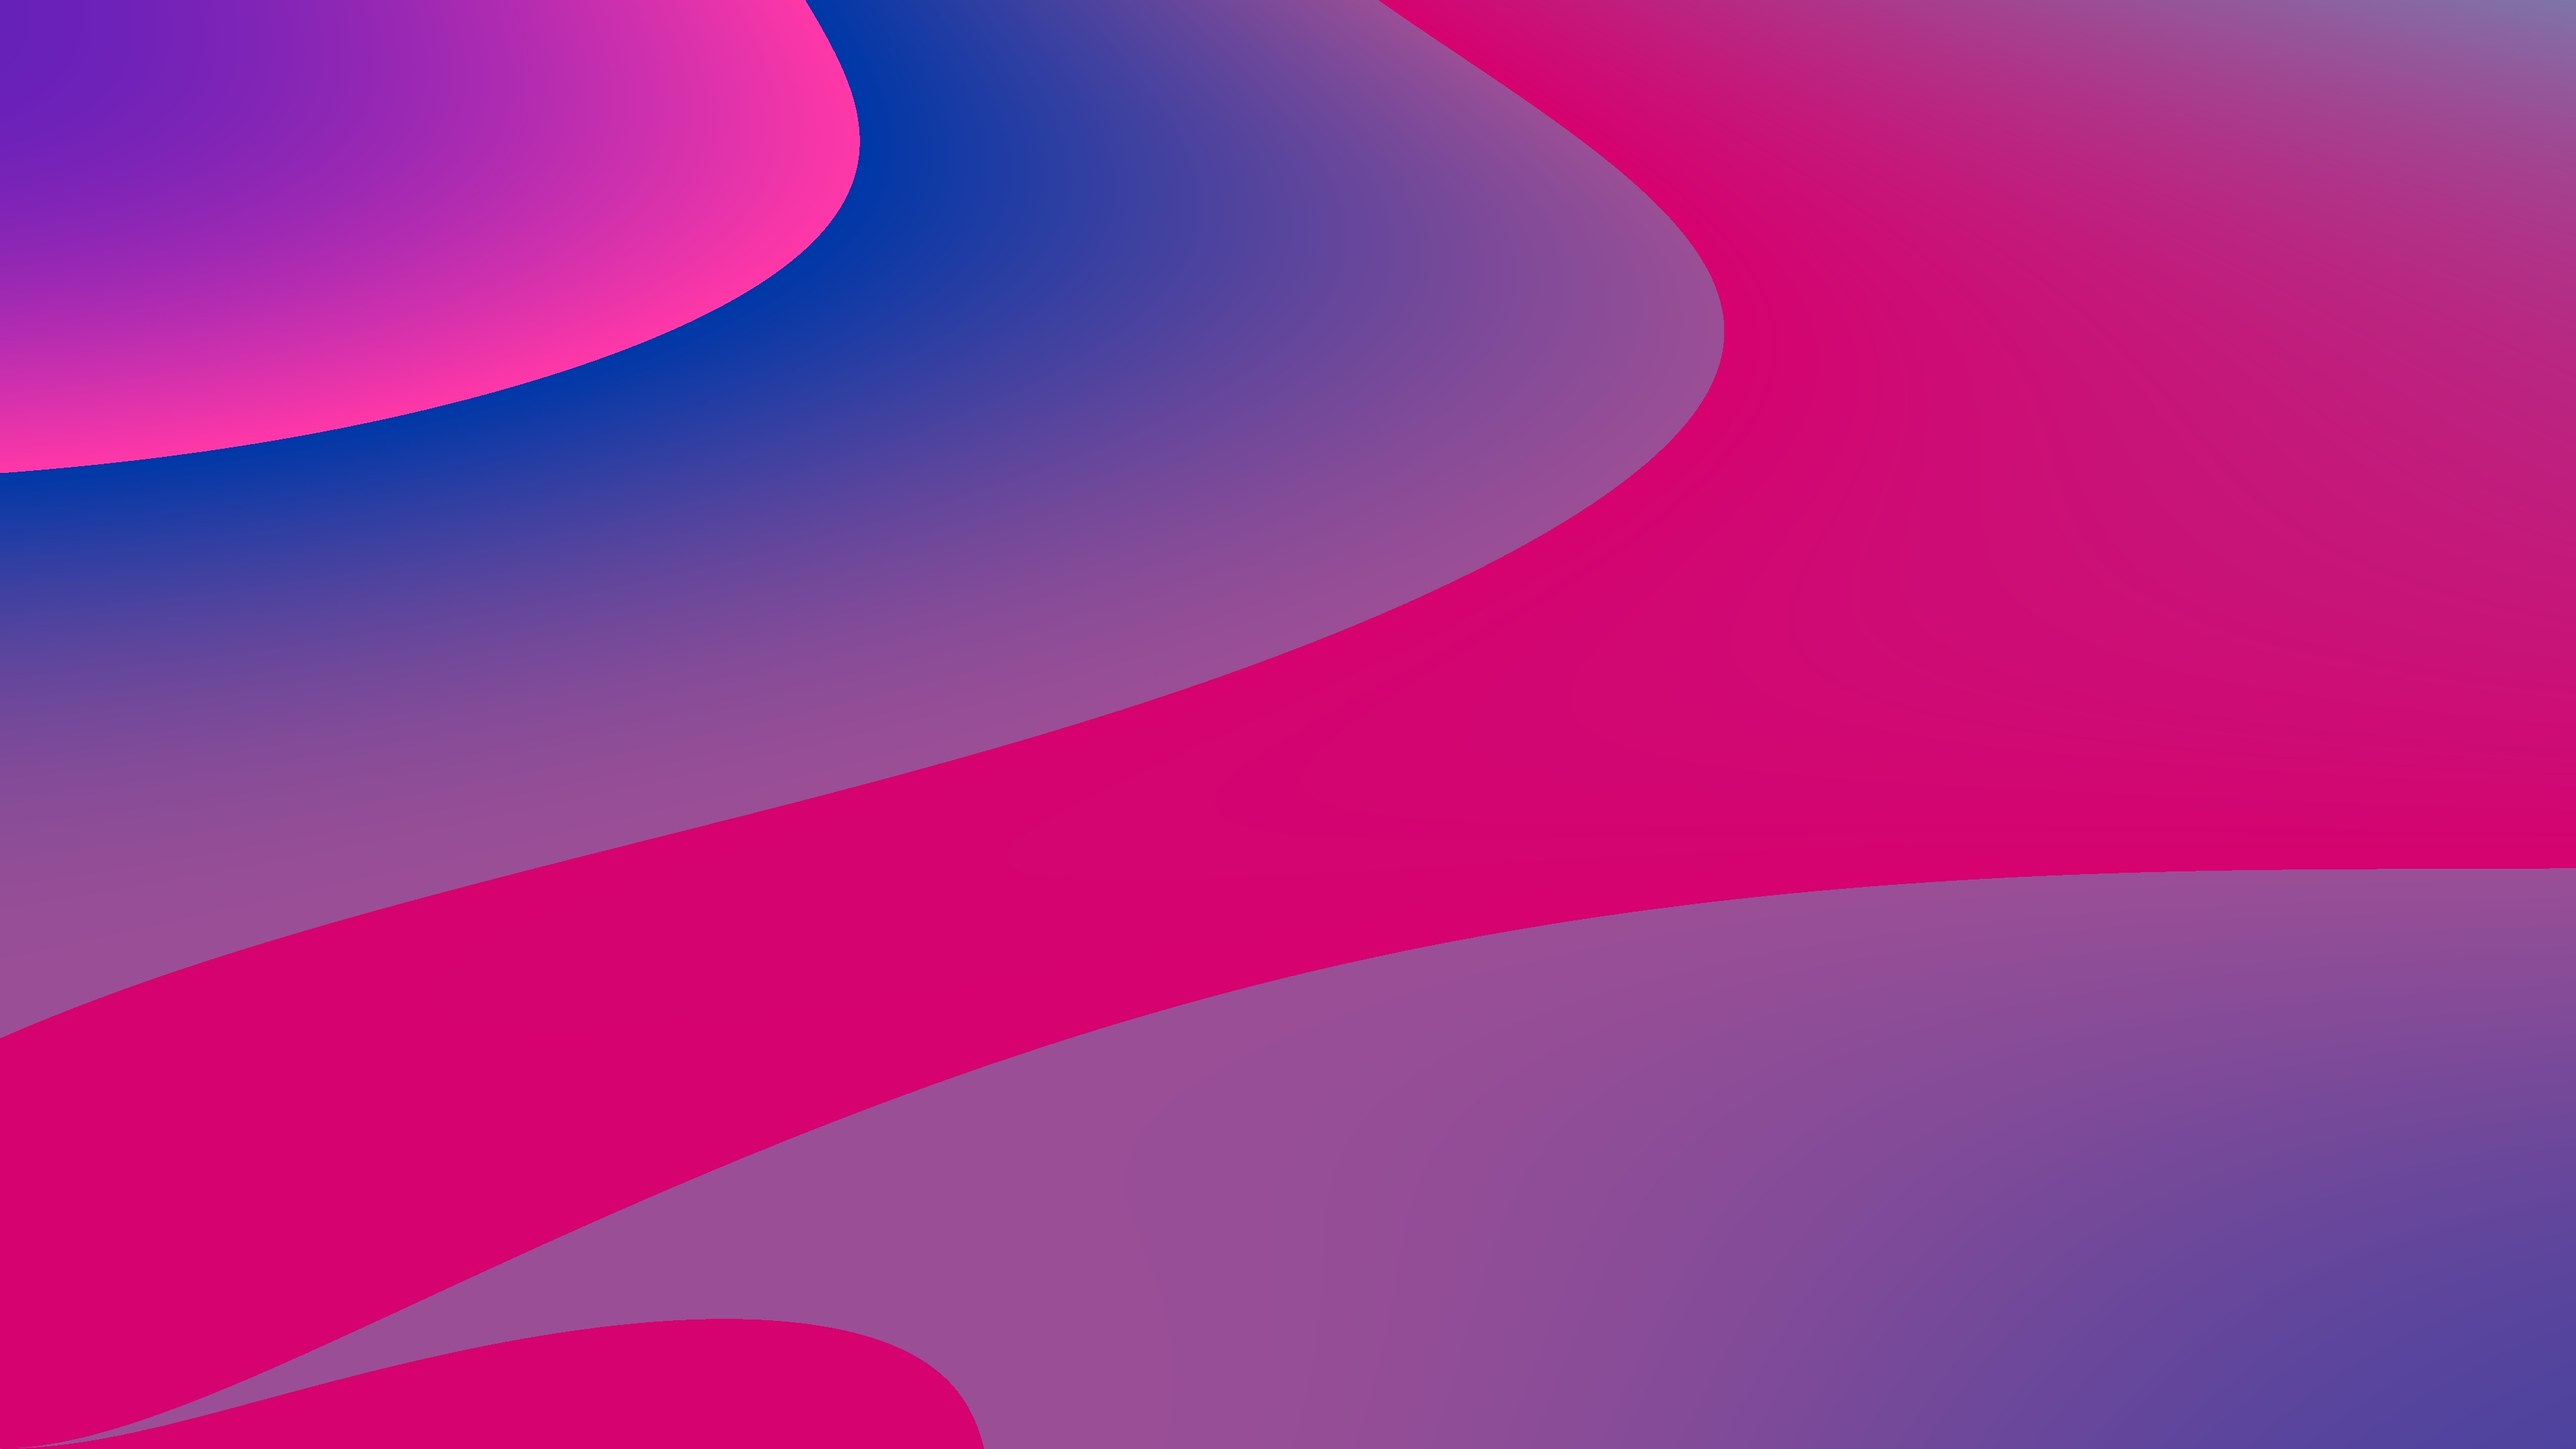
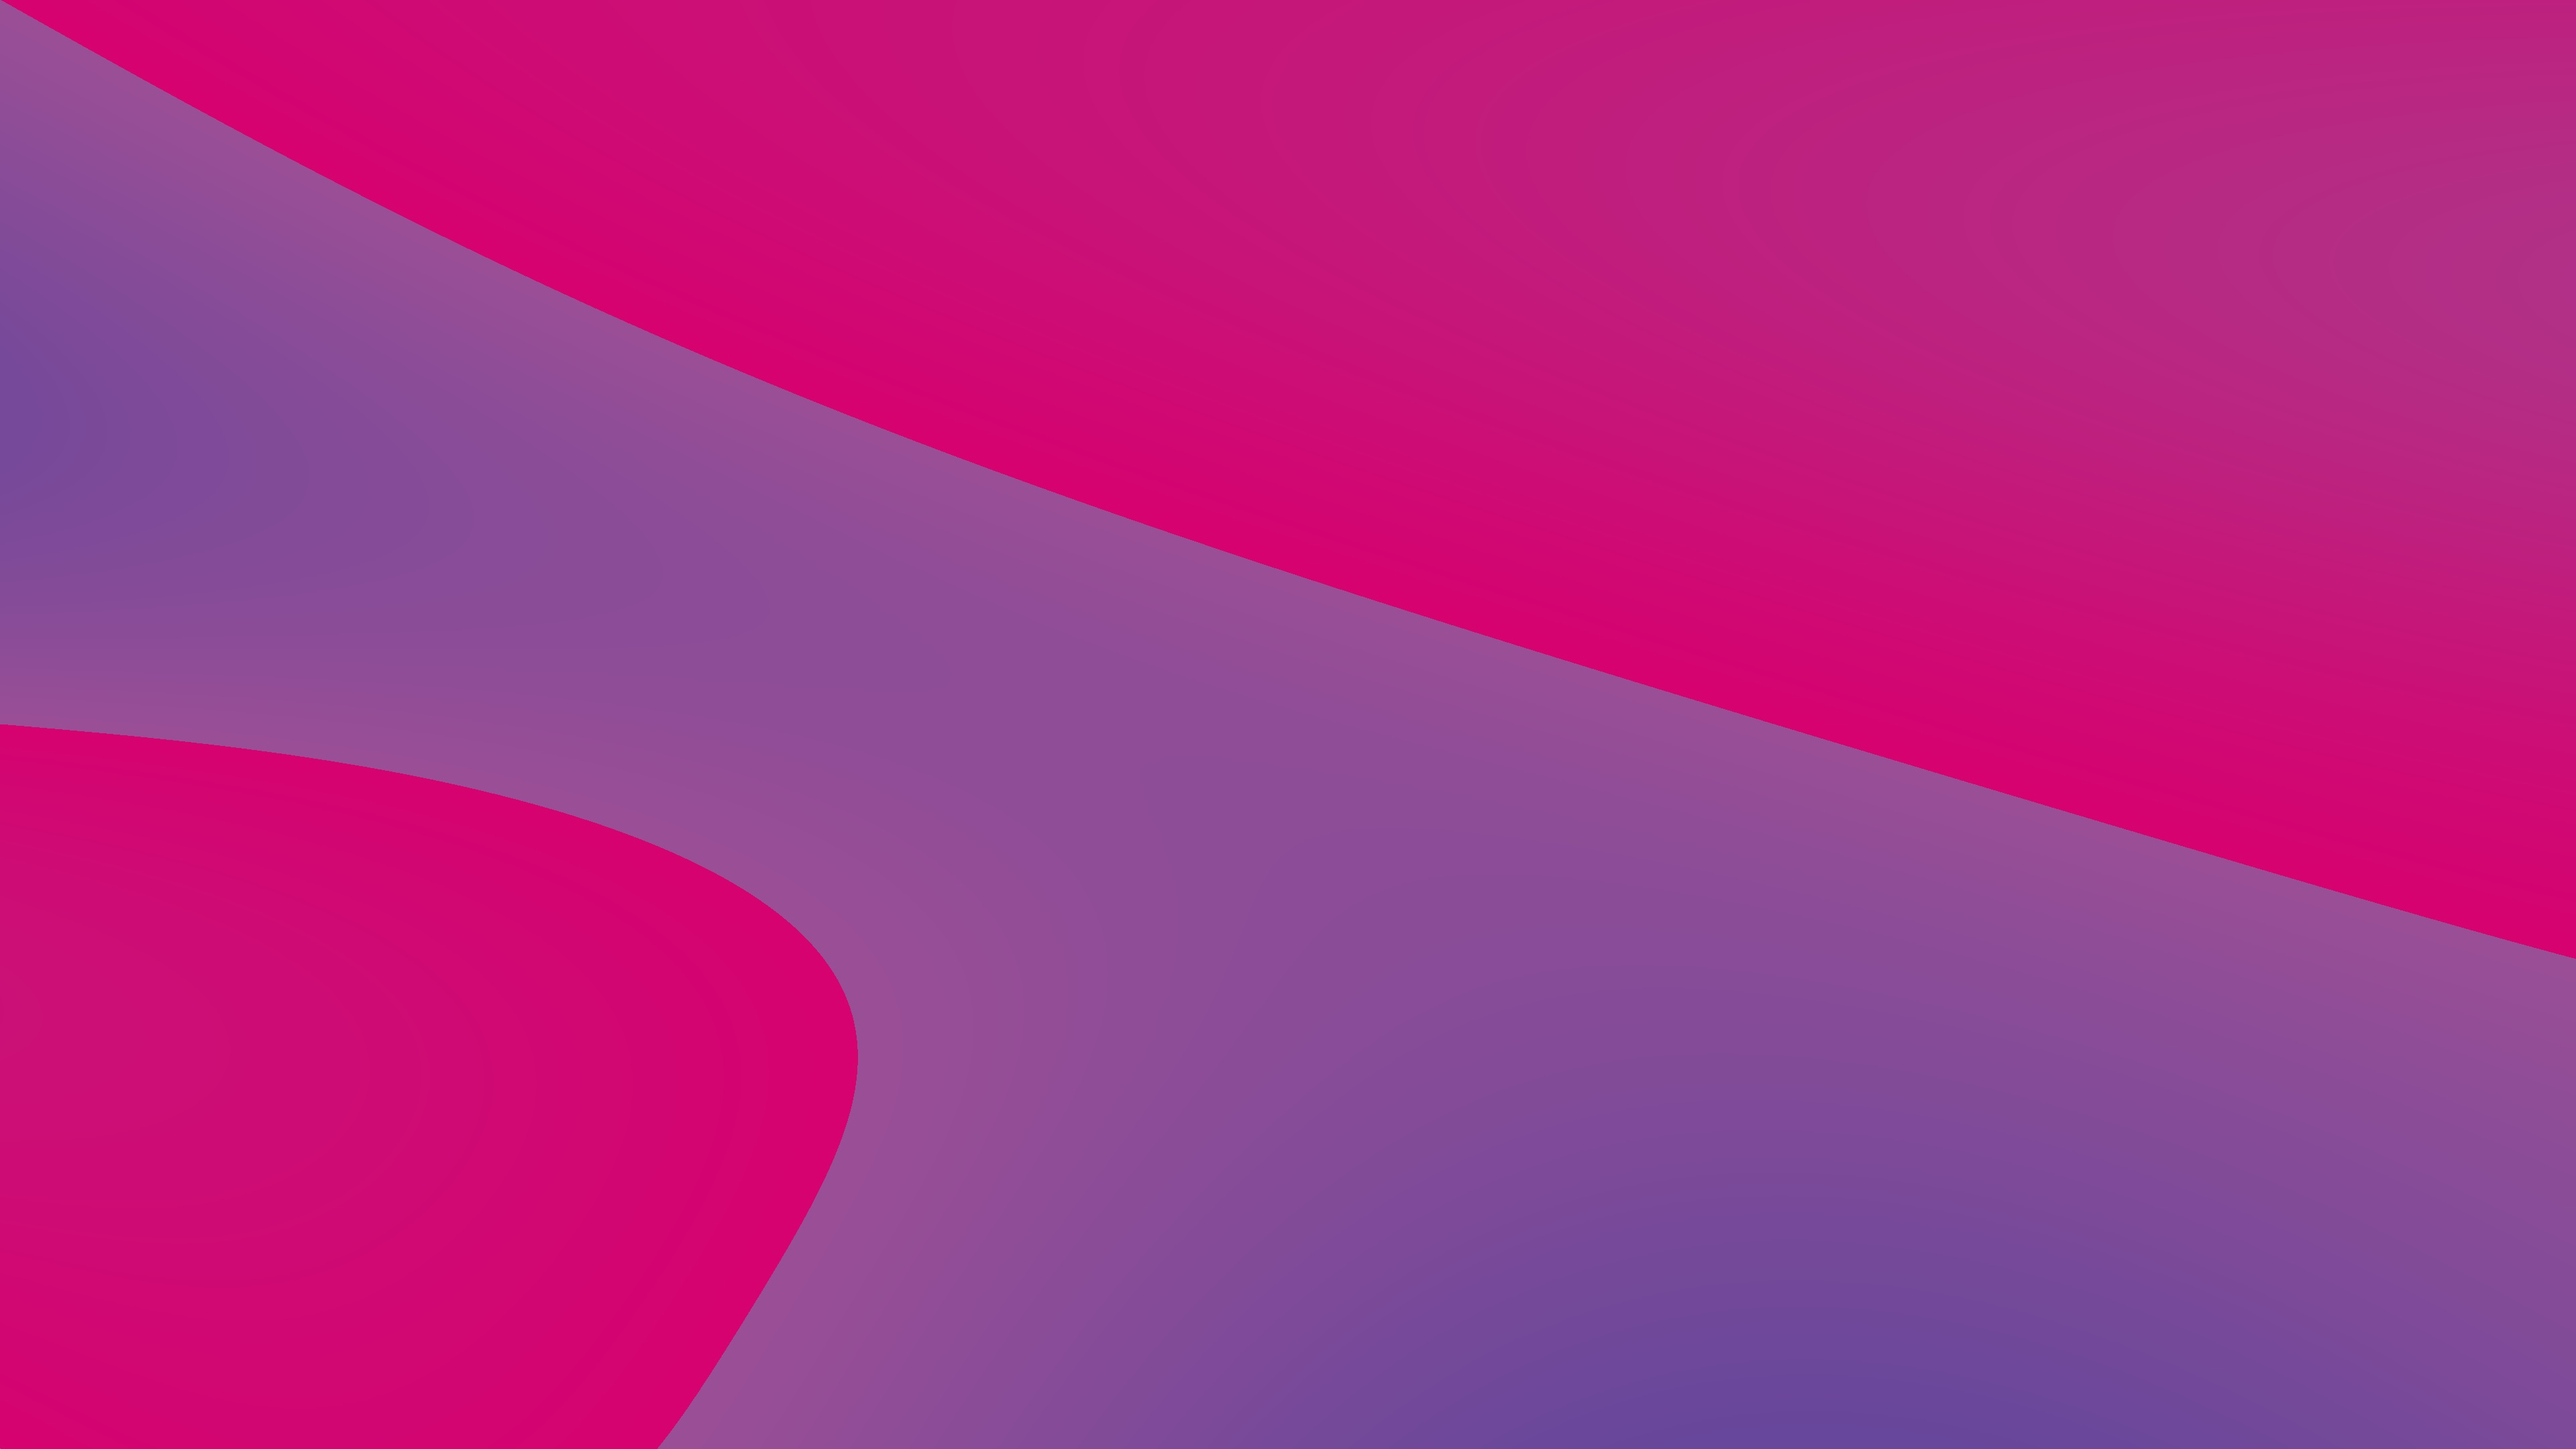
Changed gradient algorithm

diff --git a/main.cpp b/main.cpp
@@ -90,16 +90,10 @@ void gradMode(colour colours[3]){
             double x = PerlinNoise::perlin((double)i/height,(double)j/width,0);
 
             // generate a gradient
-            // since the range for perlin is ~-4 to ~4, 
-            // and interpolate() only expects numbers between 0 and 1,
-            // it will overflow on occasion. This keeps it from being a 
-            // boring gradient with no details. If a true gradient is 
-            // desired, in "x/-2" and "x/2", the 2s can be changed to 4.2
-            // and it should never overflow.
             if(x < 0)
-                interpolate(x/-2, colours[0], colours[1]);
+                interpolate(x/-5, colours[0], colours[1]);
             else
-                interpolate(x/2, colours[1], colours[2]);
+                interpolate(x/5, colours[1], colours[2]);
             image->setPixel(outColour.red, outColour.green, outColour.blue, i, j);
         }
     }
